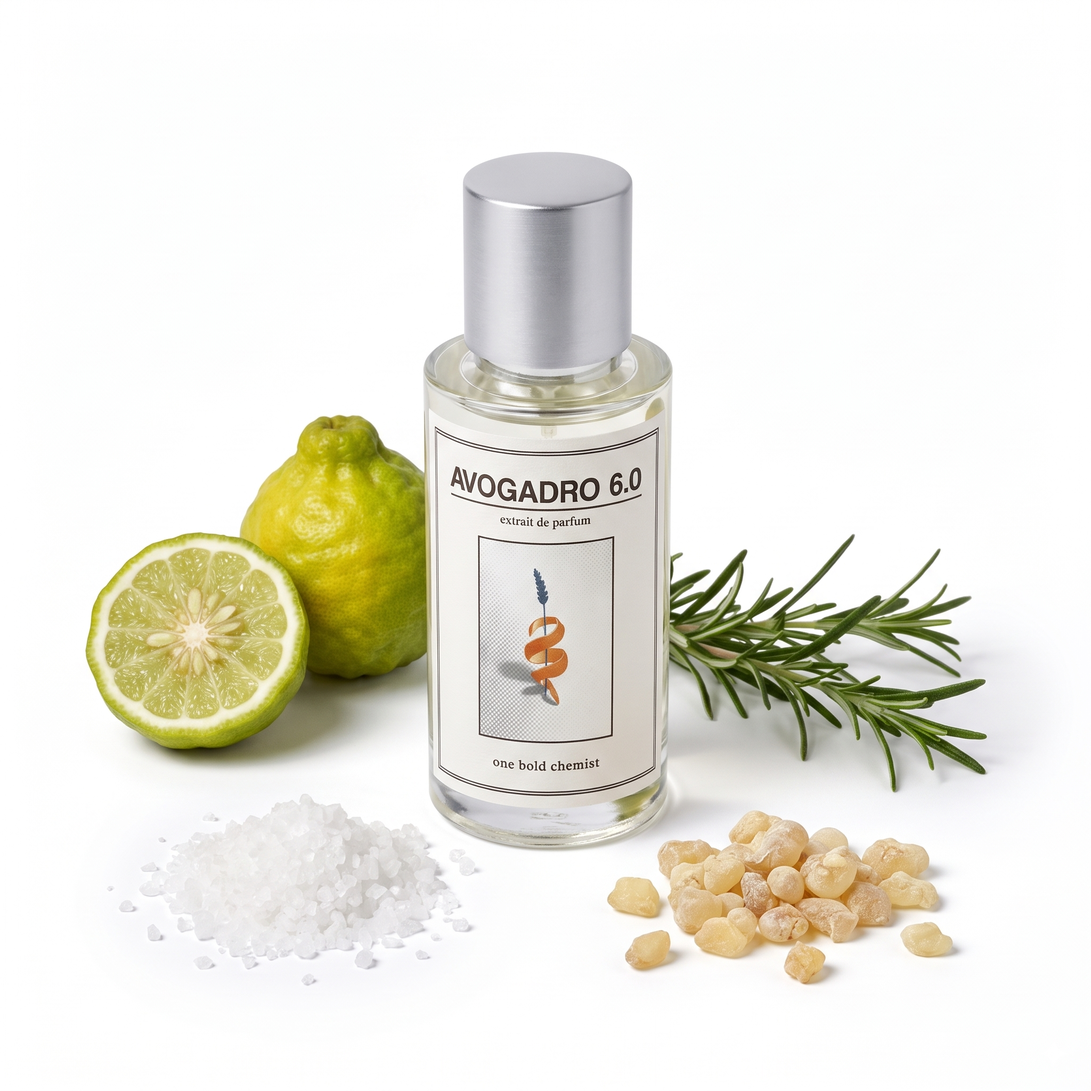
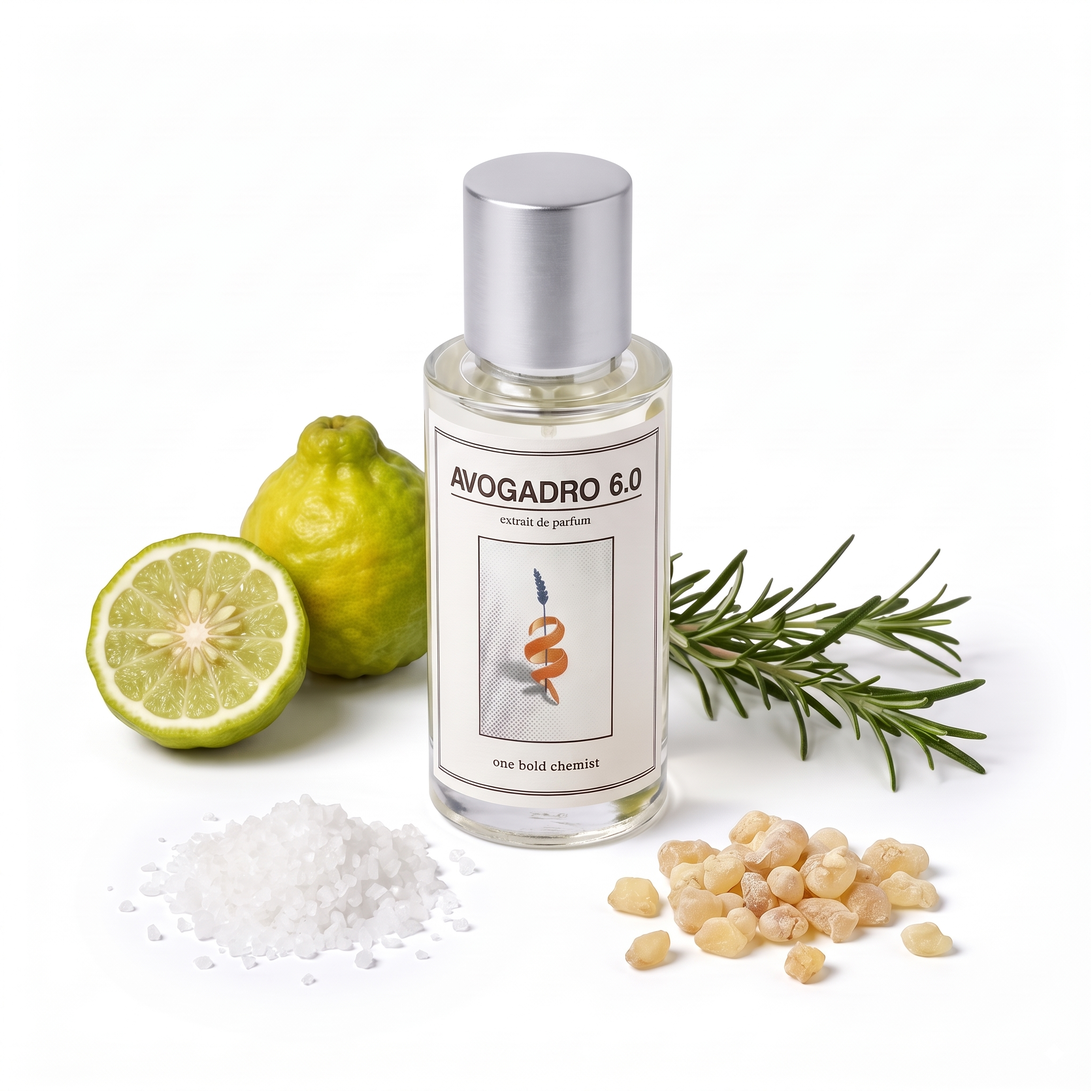
Lock bottle size/position, add hyper-realism ingredient descriptions, add style-ref and 2K support to the GPT provider
Claude-Session: https://claude.ai/code/session_016v8pxCBCRgnJrBoVHWv8hg

diff --git a/notes-images/scripts/generate.py b/notes-images/scripts/generate.py
@@ -44,17 +44,19 @@ PROMPT_TEMPLATE = """Edit this image. Image 1 is a product photo of a 50 ml perf
 
 BOTTLE: keep the bottle exactly as in image 1: the same glass bottle, brushed silver cap and liquid colour, and the same label with the exact text "{label}", "extrait de parfum" and "one bold chemist" plus the same small halftone illustration. Do not redraw, rotate, tilt or alter the label in any way. The label is opaque printed paper wrapped around the glass: it is never transparent, and nothing beside or behind the bottle ever shows through it.
 
-CAMERA: a front view with the camera raised clearly above the bottle, looking down at about 20 degrees, so the full top of the cap is visible as an ellipse and the white surface stretches out in front of and around the bottle. The label faces the camera squarely, the bottle is not rotated, normal 85 mm lens with no wide-angle distortion. This exact camera height and angle is identical for every image in the series. The bottle stands centred and takes about 55% of the image height.
+CAMERA: a front view with the camera raised clearly above the bottle, looking down at about 20 degrees, so the full top of the cap is visible as an ellipse and the white surface stretches out in front of and around the bottle. The label faces the camera squarely, the bottle is not rotated, 100 mm macro-capable lens with no wide-angle distortion, tack sharp on the bottle and on every ingredient. This exact camera height, angle and distance is identical for every image in the series: the bottle is always the same size and in the same position, horizontally centred, the top of the cap about 15% below the top edge and the base of the bottle about 72% below the top edge, so the bottle spans about 57% of the image height. Never move the camera closer or further away.
 
 SCENE: one single real studio photograph, shot on a medium-format camera at f/11. The bottle and all ingredients stand together on the same pure white seamless surface that continues into a pure white background. The background is evenly lit, clean white everywhere, with no gradient, vignette, grey falloff or darkening at the top; the only tones on the white are the objects' soft shadows and reflections. Lit by one large, soft light from the upper left and gently filled from the right, so every object shares the same soft directional light, has a soft contact shadow under it falling to the lower right, and a faint reflection on the paper. The ingredients closest to the bottle are faintly reflected and refracted in its glass, and the bottle casts its own soft shadow across the ingredients on its right. Same colour temperature, same sharpness and fine grain across the whole frame, slight natural depth of field towards the back. Nothing may look cut out, pasted in or floating; every object sits firmly on the surface. Nothing but the white sweep and the objects standing on it is visible anywhere in the frame; the picture has no visible edges, panels, walls or equipment of any kind.
 
 INGREDIENTS: arrange the fragrance's raw ingredients around the base of the bottle in four separate small groups, in front of and beside the bottle only. The space directly behind the bottle stays completely empty, so nothing is seen through the glass and the label is read against plain background. Clear space between the groups, nothing piled up and nothing covering the label:
 {ingredients}
-Each ingredient is real, tactile and at true scale relative to a 50 ml bottle. Keep every group small and low: no group is taller than one third of the bottle's height, no single piece is longer than half the bottle's height, and there are only a few pieces per group.
+Each ingredient is at true scale relative to a 50 ml bottle. Keep every group small and low: no group is taller than one third of the bottle's height and no single piece is longer than half the bottle's height; a natural handful per group.
+
+REALISM: every ingredient is photographed with macro-level detail and looks like a real, slightly imperfect raw material picked up at a spice market or in a garden: visible surface texture, fibres, pores, ridges, tiny cracks, dust, moisture and natural colour variation, with small specular highlights where surfaces are glossy and soft translucency where light passes through. Nothing is idealised, symmetrical, waxy, plastic or illustrated, and nothing looks like a clean stock cut-out.
 
 FRAMING: the whole arrangement, bottle and ingredients together, sits inside the central 75% of the frame; the outer 12% on every side is empty white background. No object touches or crosses the picture edge: make an ingredient smaller or move it inward rather than letting it reach the edge. No text, captions, extra props or hands. Square 1:1, high-end product photography."""
 
-STYLE_REF_SENTENCE = " Image 2 is a finished example from the same series: match its camera height and angle, bottle size, lighting and shadow direction exactly, so this image looks shot in the same session. Background must be pure white and every ingredient must stay well inside the frame, as described below."
+STYLE_REF_SENTENCE = " Image 2 is a finished example from the same series: match its camera height, angle and distance exactly, so the bottle has the same size and the same position in the frame as in image 2, with the same lighting and shadow direction, as if shot in the same session without touching the camera. Background must be pure white and every ingredient must stay well inside the frame, as described below."
 
 
 FLOW_TEMPLATE = """Product still life of the exact perfume bottle from the reference image: the same 50 ml glass bottle, brushed silver cap, liquid colour and label with the text "{label}", "extrait de parfum" and "one bold chemist" and the same small halftone illustration, reproduced exactly with no changes to the label. The bottle stands centred on a pure white surface, about 60% of the frame height, seen from a slightly elevated angle.
@@ -146,25 +148,34 @@ def openai_list_models() -> None:
             print(m)
 
 
-def generate_image_openai(model: str, size: str, bottle: Path, prompt: str, retries: int = 3) -> tuple[bytes, str]:
-    """GPT Image via /images/edits: flaskbilden skickas som referens, input_fidelity=high bevarar etiketten."""
+def generate_image_openai(model: str, size: str, bottle: Path, prompt: str, retries: int = 3, style_ref: Path | None = None) -> tuple[bytes, str]:
+    """GPT Image via /images/edits: flaskbilden (och ev. stilreferens) skickas som bild 1 (och 2)."""
     import base64  # noqa: PLC0415
 
     import requests  # noqa: PLC0415
 
-    mime = "image/jpeg" if bottle.suffix.lower() in (".jpg", ".jpeg") else "image/png"
-    px = {"auto": "1024x1024", "1K": "1024x1024", "2K": "1024x1024", "4K": "1024x1024"}[size]
+    def mime_of(p: Path) -> str:
+        return "image/jpeg" if p.suffix.lower() in (".jpg", ".jpeg") else "image/png"
+
+    px = {"auto": "1024x1024", "1K": "1024x1024", "2K": "2048x2048", "4K": "2048x2048"}[size]
+    files = [("image[]", (bottle.name, bottle.read_bytes(), mime_of(bottle)))]
+    if style_ref:
+        files.append(("image[]", (style_ref.name, style_ref.read_bytes(), mime_of(style_ref))))
     last_err: Exception | None = None
     for attempt in range(1, retries + 1):
         try:
             r = requests.post(
                 f"{OPENAI_API}/images/edits",
                 headers={"Authorization": f"Bearer {openai_key()}"},
-                files={"image": (bottle.name, bottle.read_bytes(), mime)},
+                files=files,
                 data={"model": model, "prompt": prompt, "n": "1", "size": px, "quality": "high", "output_format": "png",
                       **({"input_fidelity": "high"} if model.startswith("gpt-image-1") else {})},
                 timeout=600,
             )
+            if r.status_code == 400 and "size" in r.text and px != "1024x1024":
+                px = "1536x1536" if px == "2048x2048" and "1536x1536" in r.text else "1024x1024"
+                print(f"  storleken stöds inte, provar {px}")
+                continue
             if r.status_code != 200:
                 raise RuntimeError(f"HTTP {r.status_code}: {r.text[:400]}")
             item = r.json()["data"][0]
@@ -288,7 +299,7 @@ def main() -> None:
         try:
             bottle = ensure_bottle(product)
             if args.provider == "openai":
-                data, mime = generate_image_openai(args.model, args.size, bottle, prompt)
+                data, mime = generate_image_openai(args.model, args.size, bottle, prompt, style_ref=args.style_ref)
             else:
                 data, mime = generate_image(client, args.model, args.size, bottle, prompt, style_ref=args.style_ref)
             ext = "jpg" if "jpeg" in mime else "png"
